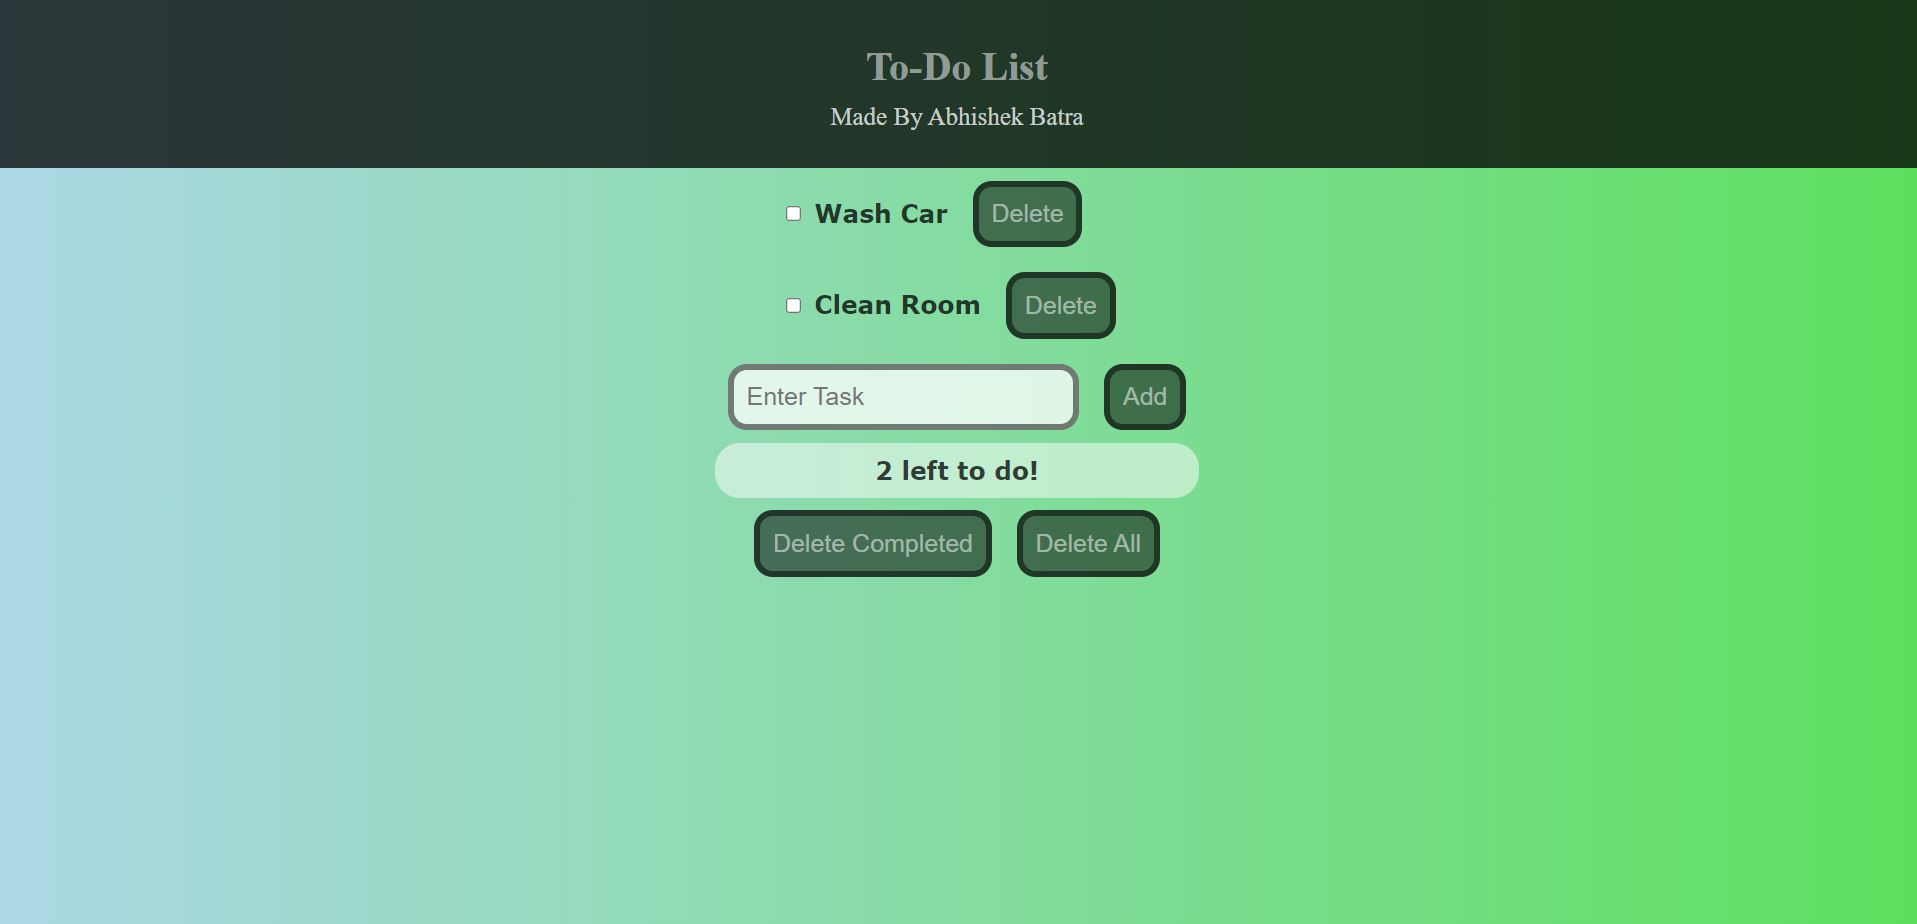
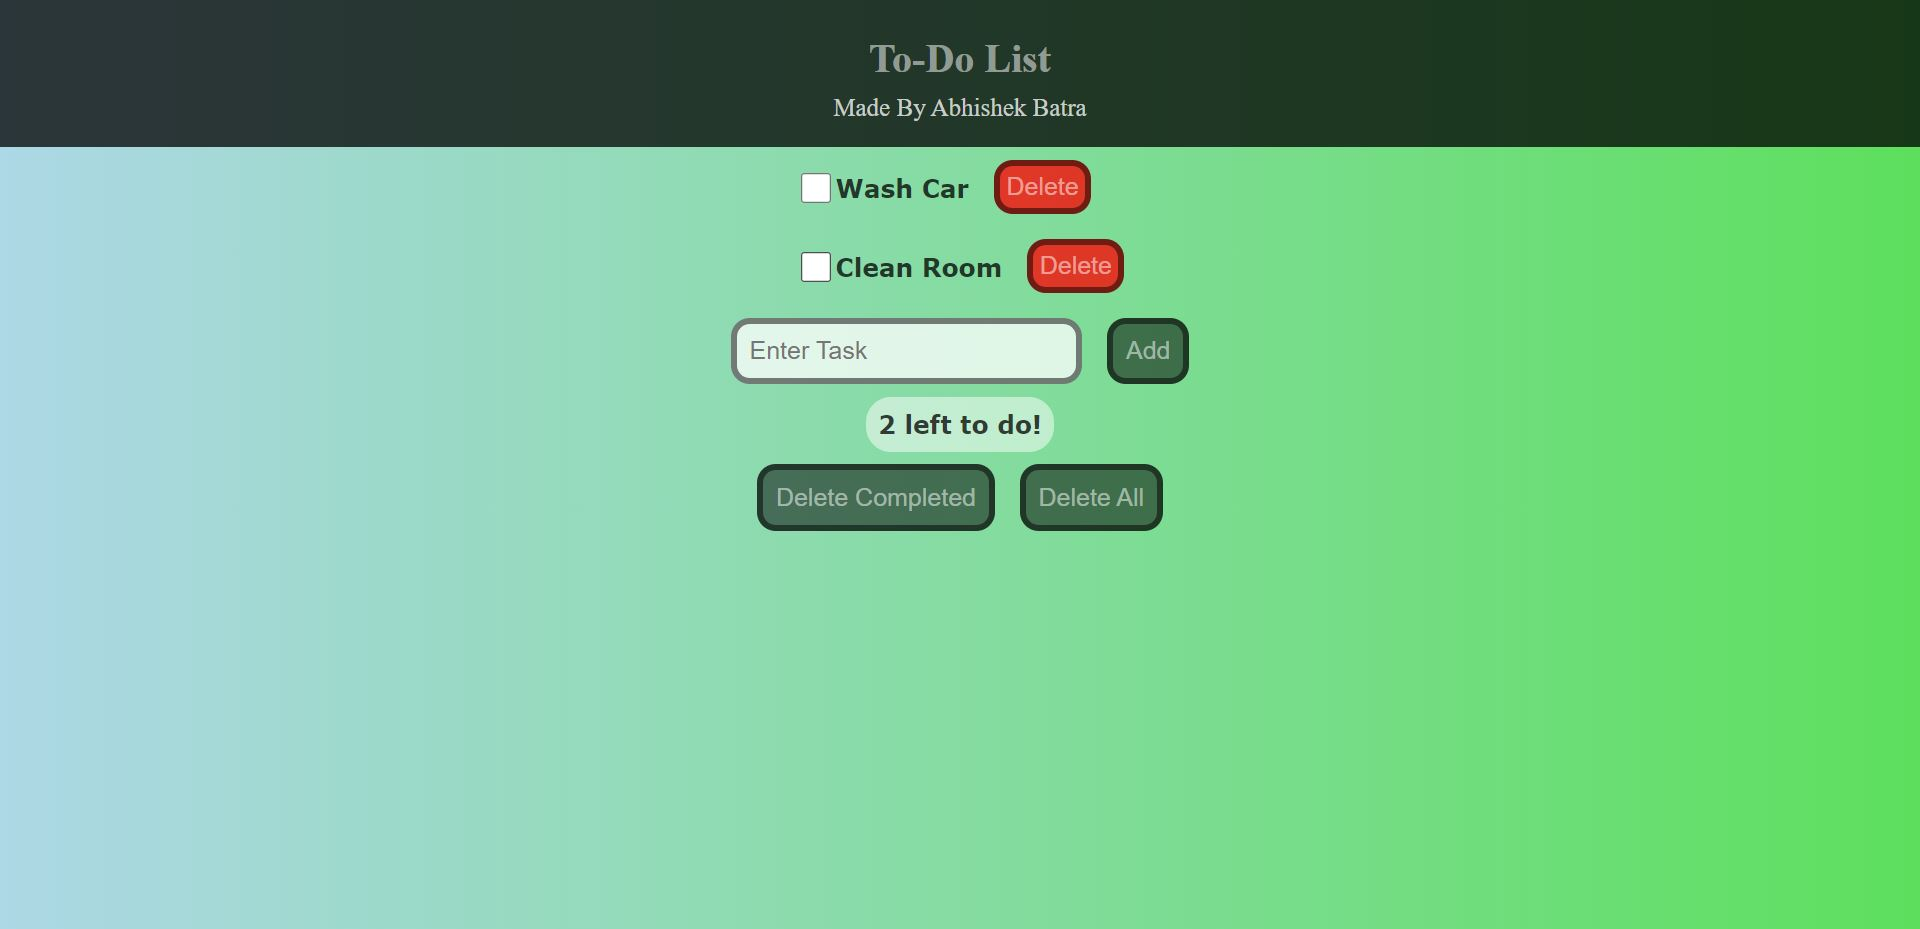
Updated UI

Changed region(s): [[0.0, 0.0303, 1.0, 0.6364]]

diff --git a/src/styles.css b/src/styles.css
@@ -18,7 +18,7 @@ h1, p{
 .header{
     color: rgba(255, 255, 255, .5);
     background-color: rgba(0, 0, 0, .75);
-    padding: 30px;
+    padding: 20px;
     width: 100%;
     text-align: center;
 }
@@ -43,7 +43,13 @@ a{
     display: flex;
     flex-direction: column;
     align-items: center;
-    justify-content: space-between;
+    justify-content: center;
+}
+
+.task{
+    display: flex;
+    align-items: center;
+    justify-content: center;
 }
 
 button{
@@ -60,6 +66,13 @@ button{
 button:hover{
     color: rgba(0, 0, 0, .5);
     background: rgba(255, 255, 255, .5);
+}
+.delete{
+    padding: 5px;
+    background: rgba(255, 0, 0, .75);
+}
+.delete:hover{
+    background: rgba(255, 0, 0, .85);
 }
 .input{
     color: rgba(0, 0, 0, .5);
@@ -81,6 +94,31 @@ label{
 }
 
 .checkbox{
-    margin: 15px auto;
-    position: relative;
+    height: 25px;
+    width: 25px;
+}
+.checkboxes label {
+    display: inline-block;
+    padding-right: 10px;
+    white-space: nowrap;
+}
+.checkboxes input {
+    vertical-align: middle;
+}
+.checkboxes label span {
+    vertical-align: middle;
+}
+
+@media(max-width: 500px){
+    .input, button, p{
+        padding: 5px;
+        font-size: 10px;
+    }
+    label{
+        font-size: 10px;        
+    }
+    .checkbox{
+        height: 15px;
+        width: 15px;
+    }
 }

diff --git a/src/App.js b/src/App.js
@@ -32,7 +32,8 @@ function App() {
 
   function handleAddTodo(){
     const name=todoNameRef.current.value.trim();
-    if(name==='') return;
+    const alreadyThere=todos.find(todo => todo.name.toLowerCase()===name.toLowerCase());
+    if(name==='' || alreadyThere) return;
     setTodos([...todos, { id: uuidv4(), name: name, complete: false}])
     todoNameRef.current.value=null;
   }
@@ -53,11 +54,11 @@ function App() {
         <a href='https://github.com/abhishekbatra1062k/'>Made By Abhishek Batra</a>
       </div>
       <ToDoList todos={todos} toggleTodo={toggleTodo} deleteTodo={deleteTodo}/>
-      <div>
+      <div className='task'>
         <input className='input' ref={todoNameRef} type='text' placeholder='Enter Task'></input>
         <button onClick={handleAddTodo}>Add</button>
-        <p>{todos.filter(todo => !todo.complete).length} left to do!</p>
-      </div>
+      </div>  
+      <p>{todos.filter(todo => !todo.complete).length} left to do!</p>
       <div>
         <button onClick={handleDeleteCompletedTodos}>Delete Completed</button>
         <button onClick={handleDeleteAll}>Delete All</button>

diff --git a/src/ToDo.js b/src/ToDo.js
@@ -11,10 +11,9 @@ export default function ToDo({todo, toggleTodo, deleteTodo}) {
     }
 
     return (
-        <div>
-            <input className='checkbox' onChange={handleToggleTodo} type='checkbox' checked={todo.complete} />
-            <label>{todo.name}</label>
-            <button onClick={handleDeleteTodo}>Delete</button>
+        <div className='checkboxes'>
+            <label htmlFor={todo.name}><input className='checkbox' onChange={handleToggleTodo} type='checkbox' checked={todo.complete} id={todo.name}/><span>{todo.name}</span></label>
+            <button className='delete' onClick={handleDeleteTodo}>Delete</button>
         </div>
     )
 }

diff --git a/README.md b/README.md
@@ -1,6 +1,6 @@
-# ToDo-List
+# To-Do List
 
-ToDo list is a simple web application to save Your daily tasks in order not to miss anything.
+To-Do list is a simple web application to save Your daily tasks in order not to miss anything.
 
 ### Features
 * Add new task
@@ -17,3 +17,5 @@ ToDo list is a simple web application to save Your daily tasks in order not to m
 
 ### SCREENSHOT
 ![SCREENSHOT](./src/images/ss.JPG)
+
+## DEMO(https://abatra-to-do-list.herokuapp.com/)
